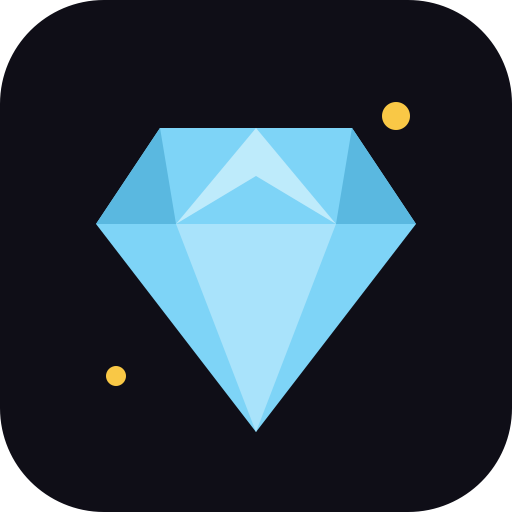
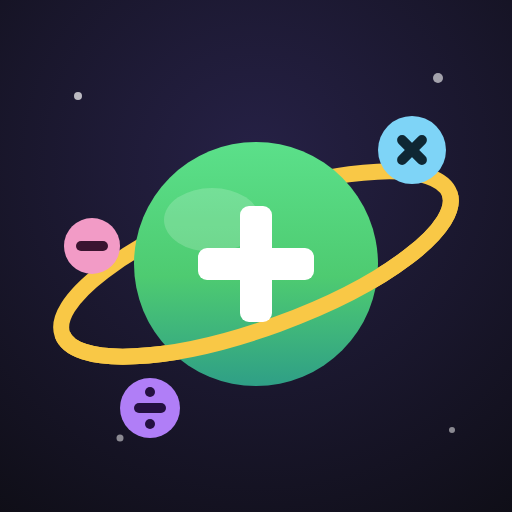
Nytt app-ikon (planet + regnesymboler) + enklere PWA-installasjon (v0.5.0)
- Ikon: byttet diamant → planet med ring og regnesymboler (+, ×, −, ÷),
  ny icon.svg + icon-512/192.png, lesbart i små størrelser.
- InstallPrompt: avvisbart banner på startskjermen. Android/desktop får ekte
  «Installer»-knapp via beforeinstallprompt; iOS Safari får instruksjon (Del →
  Legg til på Hjem-skjerm). Skjules om appen alt er installert.
- index.html: apple-mobile-web-app-meta-tagger for riktig installert utseende.
- manifest: lagt til 192x192-ikon.

diff --git a/src/components/InstallPrompt.jsx b/src/components/InstallPrompt.jsx
@@ -1,0 +1,114 @@
+import { useEffect, useState } from 'react';
+import s from './InstallPrompt.module.css';
+
+const DISMISS_KEY = 'matteverdener_install_dismissed';
+
+// Allerede installert? (kjører som standalone-app)
+function isStandalone() {
+  return (
+    window.matchMedia?.('(display-mode: standalone)').matches ||
+    window.navigator.standalone === true
+  );
+}
+
+// iOS Safari kan IKKE installere programmatisk — der må vi vise hvordan.
+// (Chrome/Firefox på iOS kan ikke legge til på hjemskjerm i det hele tatt.)
+function isIosSafari() {
+  const ua = window.navigator.userAgent;
+  const ios = /iphone|ipad|ipod/i.test(ua) ||
+    (navigator.platform === 'MacIntel' && navigator.maxTouchPoints > 1);
+  const safari = /safari/i.test(ua) && !/crios|fxios|edgios|android/i.test(ua);
+  return ios && safari;
+}
+
+/**
+ * Oppfordrer til å installere PWA-en, tilpasset plattform:
+ * - Android/desktop (Chromium): ekte «Installer»-knapp via beforeinstallprompt.
+ * - iOS Safari: instruksjon (Del → «Legg til på Hjem-skjerm»), siden Apple ikke
+ *   tillater programmatisk installasjon.
+ * Skjules om appen alt er installert, eller om brukeren har avvist den før.
+ */
+export default function InstallPrompt() {
+  const [deferred, setDeferred] = useState(null); // beforeinstallprompt-hendelsen
+  const [mode, setMode] = useState(null); // 'android' | 'ios' | null
+
+  useEffect(() => {
+    if (isStandalone()) return;
+    if (localStorage.getItem(DISMISS_KEY)) return;
+
+    function onBeforeInstall(e) {
+      e.preventDefault(); // hindre nettleserens egen mini-infolinje
+      setDeferred(e);
+      setMode('android');
+    }
+    function onInstalled() {
+      setMode(null);
+      setDeferred(null);
+    }
+    window.addEventListener('beforeinstallprompt', onBeforeInstall);
+    window.addEventListener('appinstalled', onInstalled);
+
+    // iOS gir ingen hendelse — vis instruksjon direkte.
+    if (isIosSafari()) setMode('ios');
+
+    return () => {
+      window.removeEventListener('beforeinstallprompt', onBeforeInstall);
+      window.removeEventListener('appinstalled', onInstalled);
+    };
+  }, []);
+
+  function dismiss() {
+    localStorage.setItem(DISMISS_KEY, '1');
+    setMode(null);
+  }
+
+  async function install() {
+    if (!deferred) return;
+    deferred.prompt();
+    await deferred.userChoice;
+    setDeferred(null);
+    setMode(null);
+  }
+
+  if (!mode) return null;
+
+  return (
+    <div className={s.banner} role="region" aria-label="Installer appen">
+      <div className={s.icon} aria-hidden="true">📲</div>
+      {mode === 'android' ? (
+        <>
+          <p className={s.text}>Legg MatteVerdener på hjemskjermen for raskere tilgang.</p>
+          <button type="button" className={s.installBtn} onClick={install}>
+            Installer
+          </button>
+        </>
+      ) : (
+        <p className={s.text}>
+          Legg på hjemskjermen: trykk{' '}
+          <svg className={s.share} viewBox="0 0 24 24" aria-hidden="true">
+            <path
+              d="M12 3l4 4m-4-4L8 7m4-4v12"
+              fill="none"
+              stroke="currentColor"
+              strokeWidth="2"
+              strokeLinecap="round"
+              strokeLinejoin="round"
+            />
+            <path
+              d="M6 12H5a2 2 0 00-2 2v5a2 2 0 002 2h14a2 2 0 002-2v-5a2 2 0 00-2-2h-1"
+              fill="none"
+              stroke="currentColor"
+              strokeWidth="2"
+              strokeLinecap="round"
+              strokeLinejoin="round"
+            />
+          </svg>
+          <strong>Del</strong> nederst i Safari, og velg <strong>«Legg til på Hjem-skjerm»</strong>.
+        </p>
+      )}
+      <button type="button" className={s.close} onClick={dismiss} aria-label="Lukk">
+        ✕
+      </button>
+    </div>
+  );
+}

diff --git a/src/components/InstallPrompt.module.css b/src/components/InstallPrompt.module.css
@@ -1,0 +1,82 @@
+.banner {
+  position: fixed;
+  left: 50%;
+  bottom: max(12px, env(safe-area-inset-bottom));
+  transform: translateX(-50%);
+  z-index: 50;
+  width: min(440px, calc(100vw - 24px));
+  display: flex;
+  align-items: center;
+  gap: var(--space-2);
+  padding: var(--space-2) var(--space-3);
+  background: var(--color-surface-alt);
+  border: 2px solid rgba(255, 255, 255, 0.12);
+  border-radius: var(--radius-lg);
+  box-shadow: 0 12px 32px rgba(0, 0, 0, 0.45);
+  animation: slideUp 0.32s ease;
+}
+
+@media (prefers-reduced-motion: reduce) {
+  .banner {
+    animation: none;
+  }
+}
+
+@keyframes slideUp {
+  from {
+    opacity: 0;
+    transform: translate(-50%, 16px);
+  }
+  to {
+    opacity: 1;
+    transform: translate(-50%, 0);
+  }
+}
+
+.icon {
+  font-size: 1.6rem;
+  flex-shrink: 0;
+}
+
+.text {
+  flex: 1;
+  margin: 0;
+  font-size: 0.92rem;
+  line-height: 1.3;
+  color: var(--color-text);
+}
+
+.share {
+  width: 1.05em;
+  height: 1.05em;
+  vertical-align: -0.2em;
+  margin: 0 0.1em;
+  color: var(--color-accent);
+}
+
+.installBtn {
+  flex-shrink: 0;
+  min-height: 44px;
+  padding: 0 var(--space-3);
+  font-weight: 800;
+  color: #07300f;
+  background: var(--color-accent-green);
+  border-radius: var(--radius);
+}
+
+.close {
+  flex-shrink: 0;
+  width: 36px;
+  height: 36px;
+  display: flex;
+  align-items: center;
+  justify-content: center;
+  font-size: 1rem;
+  color: var(--color-text-muted);
+  background: transparent;
+  border-radius: 50%;
+}
+
+.close:hover {
+  background: rgba(255, 255, 255, 0.08);
+}

diff --git a/index.html b/index.html
@@ -5,6 +5,10 @@
     <meta name="viewport" content="width=device-width, initial-scale=1.0" />
     <meta name="theme-color" content="#0f0e17" />
     <meta name="description" content="MatteVerdener — mattespill for 1.–7. trinn" />
+    <meta name="mobile-web-app-capable" content="yes" />
+    <meta name="apple-mobile-web-app-capable" content="yes" />
+    <meta name="apple-mobile-web-app-title" content="MatteVerdener" />
+    <meta name="apple-mobile-web-app-status-bar-style" content="black-translucent" />
     <link rel="icon" type="image/svg+xml" href="/icon.svg" />
     <link rel="apple-touch-icon" href="/icon-512.png" />
     <link rel="preconnect" href="https://fonts.googleapis.com" />

diff --git a/src/components/StartScreen.jsx b/src/components/StartScreen.jsx
@@ -1,4 +1,5 @@
 import SoundToggle from './SoundToggle.jsx';
+import InstallPrompt from './InstallPrompt.jsx';
 import { sfx } from '../sound.js';
 import s from './StartScreen.module.css';
 
@@ -51,6 +52,7 @@ export default function StartScreen({ version, onStart }) {
         Velg spiller
       </button>
       <p className={s.version}>v{version}</p>
+      <InstallPrompt />
     </main>
   );
 }

diff --git a/vite.config.js b/vite.config.js
@@ -18,6 +18,7 @@ export default defineConfig({
         display: 'standalone',
         icons: [
           { src: 'icon.svg', sizes: 'any', type: 'image/svg+xml', purpose: 'any' },
+          { src: 'icon-192.png', sizes: '192x192', type: 'image/png' },
           { src: 'icon-512.png', sizes: '512x512', type: 'image/png' }
         ]
       },